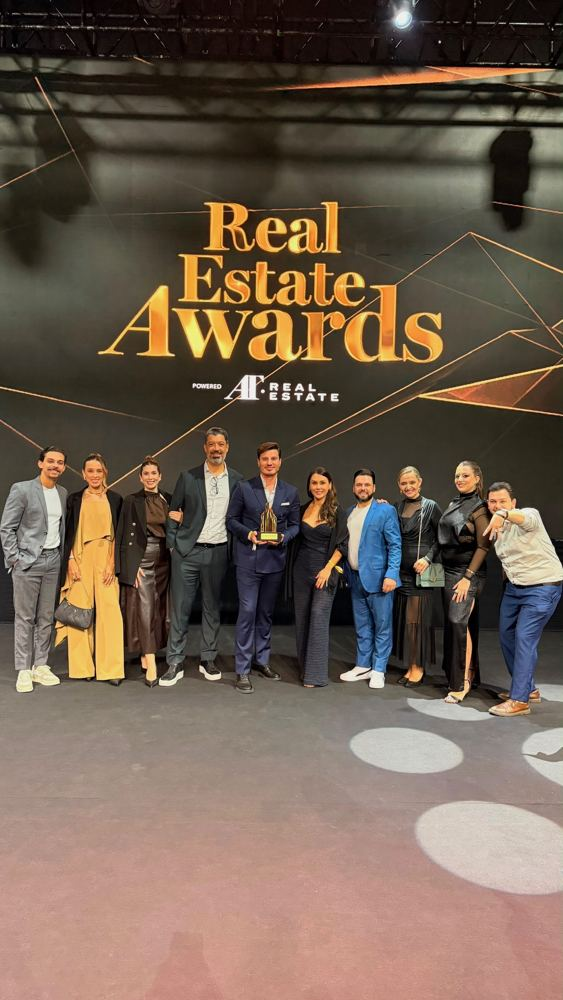
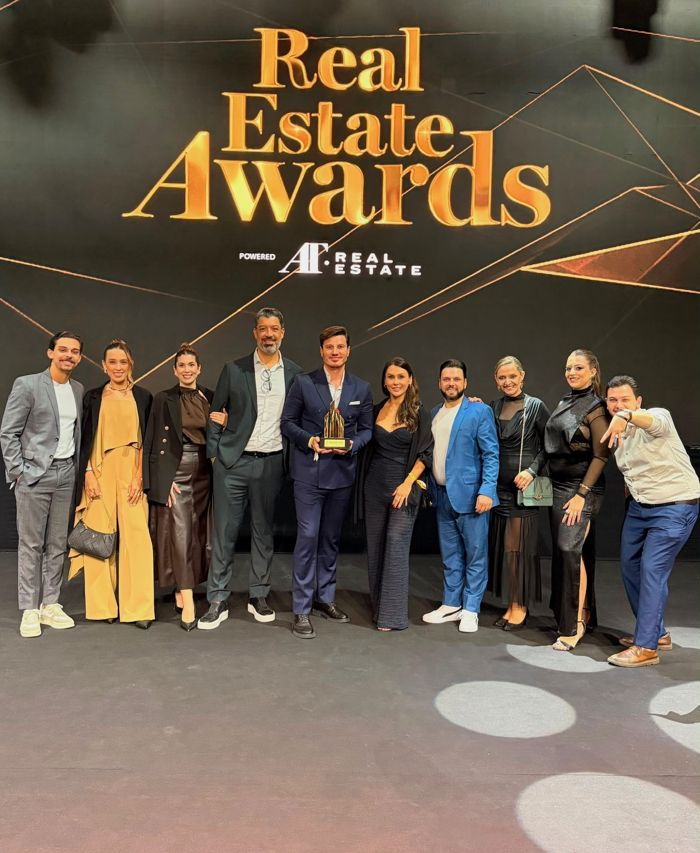
Reconhecimento: novo layout com fotos verticais (time no palco e GPTW)

diff --git a/index.html b/index.html
@@ -112,13 +112,14 @@
   .galeria img{width:100%;height:100%;object-fit:cover;display:block}
   .galeria figcaption{position:absolute;inset:auto 0 0 0;padding:16px 8px 7px;font-size:10.5px;font-weight:600;
        background:linear-gradient(transparent,rgba(21,18,15,.9))}
-  .premio{display:grid;grid-template-columns:1.3fr 1fr;grid-template-rows:repeat(3,minmax(0,1fr));gap:8px;height:340px}
-  .premio figure{position:relative;border-radius:14px;overflow:hidden;border:1px solid var(--line)}
-  .premio figure:first-child{grid-row:span 3}
+  .premio{display:grid;grid-template-columns:1fr 1fr;gap:8px}
+  .premio figure{position:relative;border-radius:14px;overflow:hidden;border:1px solid var(--line);height:230px}
+  .premio .f-main{grid-column:1/-1;height:380px}
+  .premio .f-anuncio{grid-column:1/-1;height:190px}
   .premio img{width:100%;height:100%;object-fit:cover;object-position:center 30%;display:block}
   .premio figcaption{position:absolute;inset:auto 0 0 0;padding:18px 10px 8px;font-size:11px;font-weight:600;line-height:1.35;
        background:linear-gradient(transparent,rgba(21,18,15,.92))}
-  .premio figure:first-child figcaption{font-size:13px}
+  .premio .f-main figcaption{font-size:13px}
   footer{margin-top:28px;font-size:11px;line-height:1.6;color:var(--muted);max-width:400px}
   .disclaimer{display:block;margin-top:12px;padding-top:12px;border-top:1px solid var(--line);font-size:10px;line-height:1.55;opacity:.8;text-align:left}
   .disclaimer b{font-weight:600}
@@ -131,7 +132,10 @@
     .col-conteudo .bloco:first-child{margin-top:0}
     .local{height:380px}
     .galeria figure{height:200px}
-    .premio{height:460px}
+    .premio{grid-template-columns:1.3fr .6fr .6fr;grid-template-rows:200px 300px}
+    .premio figure,.premio .f-main,.premio .f-anuncio{height:auto}
+    .premio .f-main{grid-column:1;grid-row:1/3}
+    .premio .f-anuncio{grid-column:2/4}
     .midia{display:grid;grid-template-columns:1fr 1fr;gap:12px}
     footer{max-width:none}
   }
@@ -206,10 +210,10 @@
     <h2 id="t-premio">Reconhecimento</h2>
     <p class="sub">A Monteo foi eleita Consórcio Imobiliário do Ano no Real Estate Awards 2026 e é certificada GPTW.</p>
     <div class="premio">
-      <figure><img src="img/trofeu-retrato-terno-azul.jpg" alt="Thiago Pereira com o troféu do Real Estate Awards 2026" loading="lazy"><figcaption>Real Estate Awards 2026 · Consórcio Imobiliário do Ano</figcaption></figure>
-      <figure><img src="img/telao-consorcio-imobiliario-do-ano.jpg" alt="Telão anunciando a Monteo como Consórcio Imobiliário do Ano" loading="lazy"><figcaption>O anúncio</figcaption></figure>
-      <figure><img style="object-position:center 82%" src="img/premio-equipe-palco.jpg" alt="Equipe Monteo no palco do prêmio" loading="lazy"><figcaption>O time no palco</figcaption></figure>
-      <figure><img src="img/gptw-3-anos-bolo.jpg" alt="Comemoração dos 3 anos de certificação GPTW" loading="lazy"><figcaption>3º ano GPTW</figcaption></figure>
+      <figure class="f-main"><img src="img/trofeu-retrato-terno-azul.jpg" alt="Thiago Pereira com o troféu do Real Estate Awards 2026" loading="lazy"><figcaption>Real Estate Awards 2026 · Consórcio Imobiliário do Ano</figcaption></figure>
+      <figure class="f-anuncio"><img src="img/telao-consorcio-imobiliario-do-ano.jpg" alt="Telão anunciando a Monteo como Consórcio Imobiliário do Ano" loading="lazy"><figcaption>O anúncio</figcaption></figure>
+      <figure><img style="object-position:center 50%" src="img/premio-equipe-palco.jpg" alt="Equipe Monteo no palco do prêmio" loading="lazy"><figcaption>O time no palco</figcaption></figure>
+      <figure><img style="object-position:center 35%" src="img/gptw-3-anos-bolo.jpg" alt="Comemoração dos 3 anos de certificação GPTW" loading="lazy"><figcaption>3º ano GPTW</figcaption></figure>
     </div>
   </section>
 
